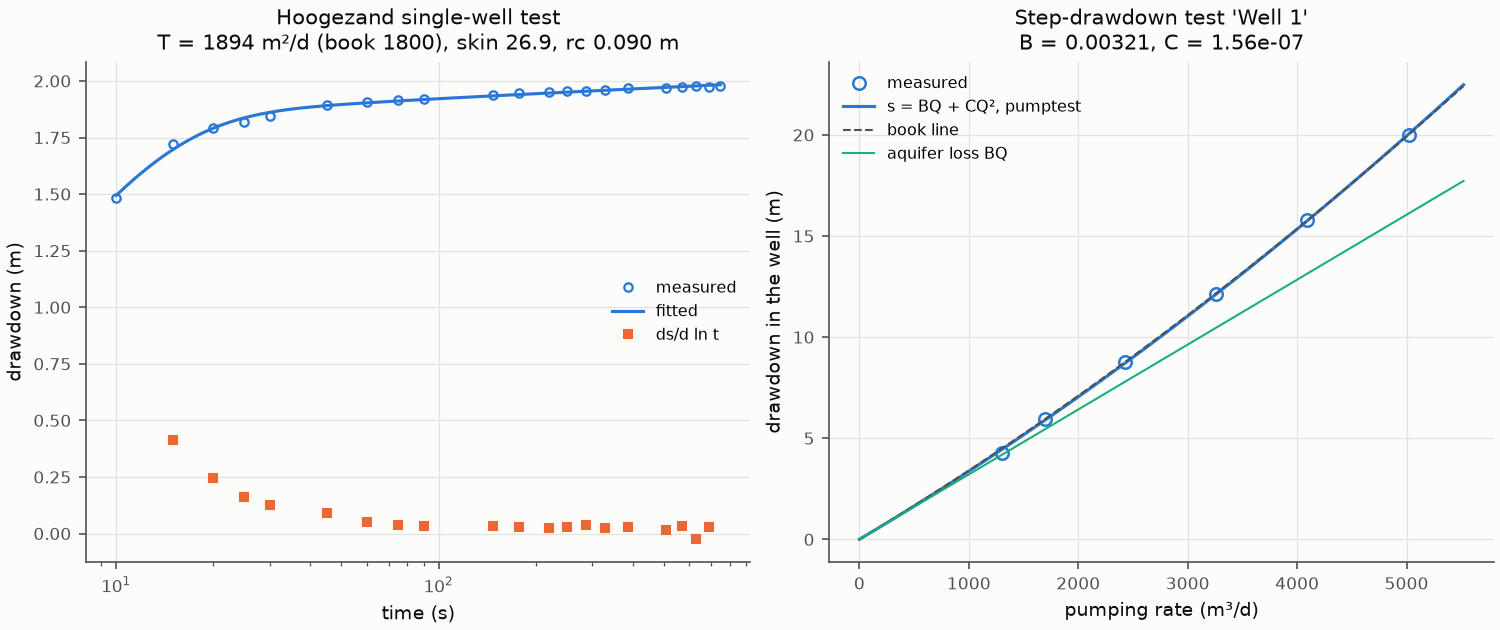
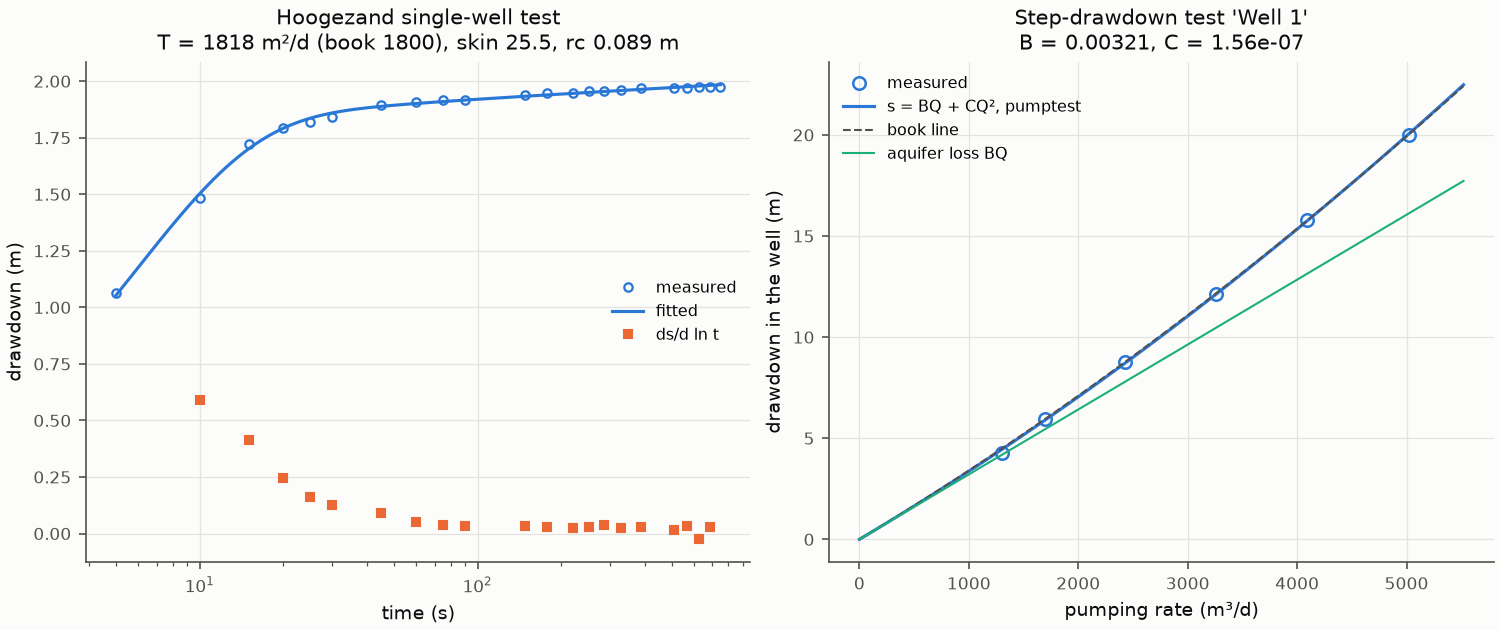
fix: keep the 5 s Hoogezand point in the figure; regenerate stale figures
5.0 / 86400 and 5.0 * (1 / 86400) differ in the last bit, so the figure
dropped the 5 s point that the validation page kept (T 1894 against 1818).
Cuts now sit half a second early. fits.png predated the Neuman starts.

diff --git a/scripts/figures.py b/scripts/figures.py
@@ -142,7 +142,9 @@ def parity_figure() -> Path:
 def single_well_figure() -> Path:
     hz = datasets.load("hoogezand")
     t, s = hz.observations[0].time, hz.observations[0].drawdown
-    keep = t >= 5.0 / 86400.0
+    # From 5 s, as on the validation page; half a second early so that the 5 s
+    # point is kept whichever way its conversion to days rounded.
+    keep = t >= 4.5 / 86400.0
     test = PumpingTest(hz.well, hz.schedule, [Observation("pumped well", 0.0, t[keep], s[keep])])
     model = PapadopulosCooper(skin=True, casing_radius=True)
     result = fit(test, model, fixed={"S": 4e-4})

diff --git a/tests/test_validation_textbook.py b/tests/test_validation_textbook.py
@@ -40,7 +40,9 @@ def test_well1_step_drawdown_fits_better_than_the_published_line() -> None:
 
 def _from(test: PumpingTest, seconds: float, well: Well | None = None) -> PumpingTest:
     obs = test.observations[0]
-    keep = obs.time >= seconds * SECOND
+    # Times are whole seconds stored in days; cutting half a second early keeps
+    # the point at the cut whichever way its conversion rounded.
+    keep = obs.time >= (seconds - 0.5) * SECOND
     return PumpingTest(
         well or test.well,
         test.schedule,

diff --git a/scripts/validation_report.py b/scripts/validation_report.py
@@ -78,7 +78,9 @@ def published_rows() -> list[str]:
 
 def _from(test: PumpingTest, seconds: float, well: Well | None = None) -> PumpingTest:
     obs = test.observations[0]
-    keep = obs.time >= seconds * SECOND
+    # Times are whole seconds stored in days; cutting half a second early keeps
+    # the point at the cut whichever way its conversion rounded.
+    keep = obs.time >= (seconds - 0.5) * SECOND
     return PumpingTest(
         well or test.well,
         test.schedule,
